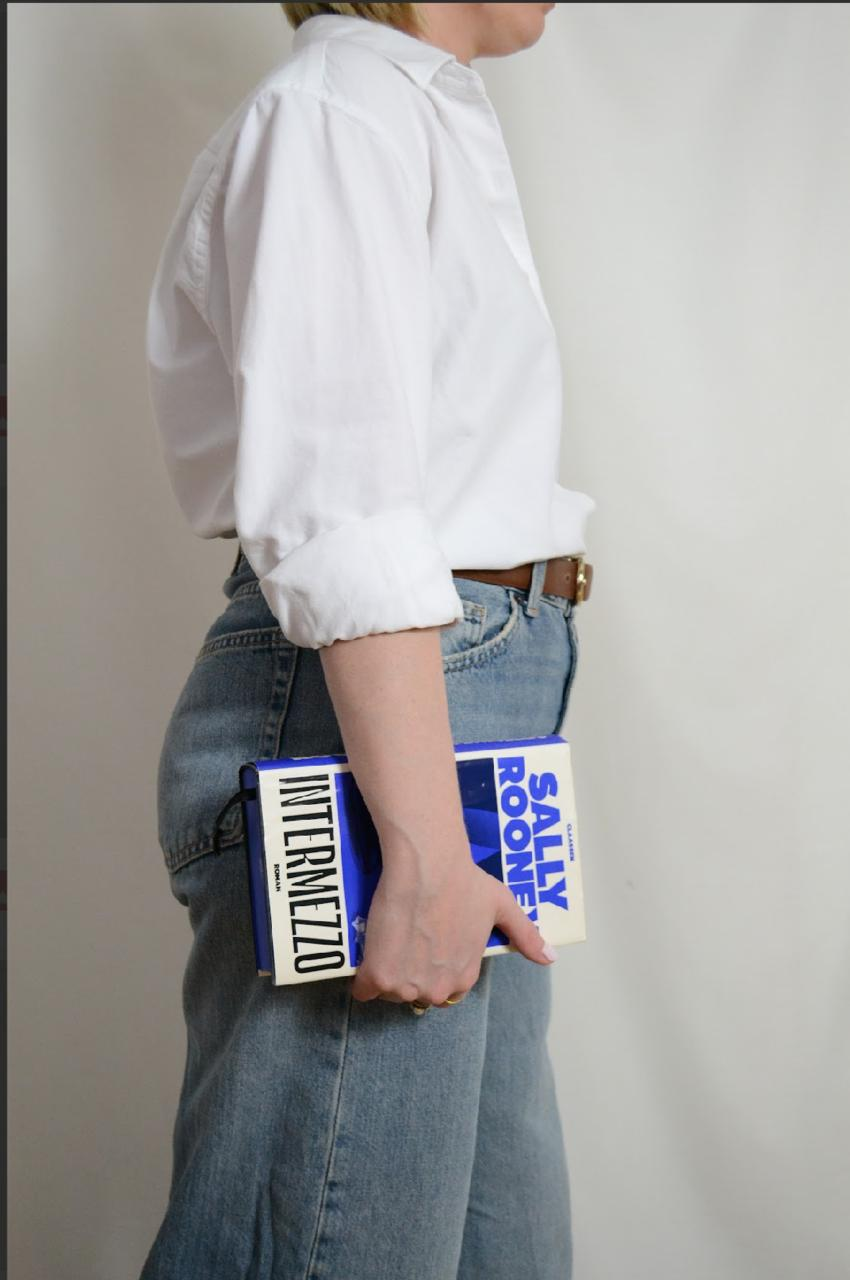
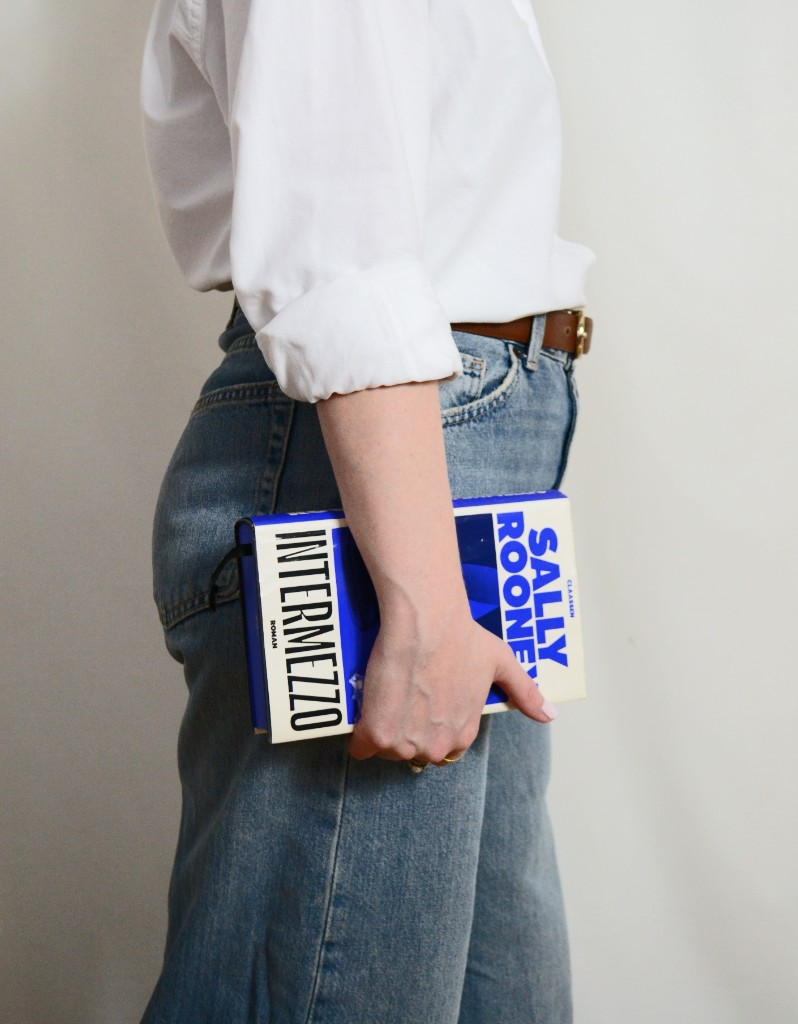
Update images, layout, text, and footer across site
- Replace hero, about, and contact images with new photos

- Adjust image containers and cropping for all pages

- Remove Referenzen section from about page

- Add Instagram icon with link to footer, remove phone number

- Add Sach/Website-Texte sentence to homepage and Korrektorat

- Fix services grid to show 3 columns on medium screens

diff --git a/src/components/AboutSection.tsx b/src/components/AboutSection.tsx
@@ -28,7 +28,7 @@ export default function AboutSection() {
           </div>
 
           {/* Right Column - Photo with asymmetric decorative frame */}
-          <div className="flex justify-center lg:justify-start">
+          <div className="flex justify-center lg:justify-start lg:pl-12">
             <div className="relative m-5">
               {/* Corner accent — L-shape at top-left */}
               <div className="absolute -top-5 -left-5 w-4/5 h-4/5 border-t-[3px] border-l-[3px] border-primary pointer-events-none" />
@@ -36,12 +36,12 @@ export default function AboutSection() {
               <div className="absolute -bottom-5 -right-5 w-4/5 h-4/5 border-b-[3px] border-r-[3px] border-primary pointer-events-none" />
 
               {/* Photo */}
-              <div className="relative w-[280px] h-[264px] sm:w-[320px] sm:h-[300px] md:w-[400px] md:h-[380px] lg:w-[460px] lg:h-[440px] overflow-hidden rounded">
+              <div className="relative w-[220px] h-[268px] sm:w-[250px] sm:h-[305px] md:w-[300px] md:h-[366px] lg:w-[340px] lg:h-[415px] overflow-hidden rounded">
                 <Image
                   src={`${process.env.NEXT_PUBLIC_BASE_PATH || ""}/images/about.png`}
                   alt="Madita Portrait"
                   fill
-                  className="object-cover"
+                  className="object-cover scale-110"
                   sizes="(max-width: 640px) 280px, (max-width: 768px) 320px, (max-width: 1024px) 400px, 460px"
                 />
               </div>
@@ -123,26 +123,6 @@ export default function AboutSection() {
                   </Link>{" "}
                   und erzähl mir von deinem Projekt.
                 </p>
-              </div>
-
-              {/* Referenzen */}
-              <div className="mt-12">
-                <h2 className="text-2xl md:text-3xl lg:text-4xl font-heading text-primary leading-tight">
-                  Referenzen
-                </h2>
-                <div className="mt-6 font-body text-text-dark leading-relaxed text-base lg:text-lg">
-                  <p>
-                    Mindmess:{" "}
-                    <a
-                      href="https://buchshop.bod.de/behind-bloody-shadows-mind-mess-9783695101269"
-                      target="_blank"
-                      rel="noopener noreferrer"
-                      className="text-primary underline underline-offset-2 hover:text-primary-light transition-colors duration-200"
-                    >
-                      Behind Bloody Shadows
-                    </a>
-                  </p>
-                </div>
               </div>
             </div>
           </div>

diff --git a/src/components/HeroSection.tsx b/src/components/HeroSection.tsx
@@ -20,12 +20,12 @@ export default function HeroSection() {
             <div className="absolute -bottom-5 -right-5 w-4/5 h-4/5 border-b-[3px] border-r-[3px] border-primary pointer-events-none" />
 
             {/* Photo */}
-            <div className="relative w-[260px] h-[347px] sm:w-[280px] sm:h-[373px] md:w-[340px] md:h-[453px] lg:w-[400px] lg:h-[533px] overflow-hidden rounded">
+            <div className="relative w-[260px] h-[290px] sm:w-[280px] sm:h-[310px] md:w-[340px] md:h-[380px] lg:w-[400px] lg:h-[450px] overflow-hidden rounded">
               <Image
                 src={`${process.env.NEXT_PUBLIC_BASE_PATH || ""}/images/hero.png`}
                 alt="Madita – Freiberufliche Lektorin"
                 fill
-                className="object-cover scale-110 -translate-y-[5%]"
+                className="object-cover object-[center_30%]"
                 priority
                 sizes="(max-width: 640px) 260px, (max-width: 768px) 280px, (max-width: 1024px) 340px, 400px"
               />
@@ -41,9 +41,8 @@ export default function HeroSection() {
 
           <p className="mt-6 sm:mt-8 text-base lg:text-lg text-text-dark font-body max-w-lg leading-relaxed">
             Ich bin Madita, freiberufliche Lektorin. Ich arbeite vor allem mit
-            Selfpublishern und begleite Autorinnen und Autoren bei der
-            Überarbeitung ihrer Texte und unterstütze mit klarem Feedback und
-            neuen Perspektiven.
+            Selfpublishern und unterstütze Autorinnen und Autoren mit klarem
+            Feedback und neuen Perspektiven.
           </p>
 
           <p className="mt-4 sm:mt-6 text-base lg:text-lg text-text-dark font-body max-w-lg leading-relaxed">
@@ -52,6 +51,11 @@ export default function HeroSection() {
             letzte Korrektur vor Veröffentlichung? Egal, an welchem Punkt du
             gerade stehst, ich unterstütze dich in deinem Schreibprozess und
             nehme deinen Text genauso ernst wie du.
+          </p>
+
+          <p className="mt-4 sm:mt-6 text-base lg:text-lg text-text-dark font-body max-w-lg leading-relaxed">
+            Neben Romanprojekten lektoriere und korrigiere ich bei Bedarf auch
+            Sach- und Website-Texte.
           </p>
 
           <div className="mt-8 sm:mt-10">

diff --git a/src/components/Footer.tsx b/src/components/Footer.tsx
@@ -6,7 +6,7 @@ export default function Footer() {
   return (
     <footer className="bg-bg-warm">
       <div className="max-w-7xl mx-auto px-6 lg:px-8 py-10 lg:py-14">
-        <div className="flex flex-col md:flex-row items-center justify-between gap-8">
+        <div className="flex flex-col md:flex-row items-end justify-between gap-8">
           {/* Left - Brand & Contact */}
           <div className="text-center md:text-left">
             <Link href="/" className="text-xl font-heading text-primary font-bold tracking-tight">
@@ -19,12 +19,29 @@ export default function Footer() {
               >
                 madita.lektorat@gmail.com
               </Link>
-              <Link
-                href="tel:+436645055561"
-                className="text-sm font-body text-text-dark hover:text-primary transition-colors duration-200"
+              <a
+                href="https://www.instagram.com/maditaanna_lektorat/"
+                target="_blank"
+                rel="noopener noreferrer"
+                className="text-text-dark hover:text-primary transition-colors duration-200 mt-1"
+                aria-label="Instagram"
               >
-                +43 (0) 664 50 555 61
-              </Link>
+                <svg
+                  xmlns="http://www.w3.org/2000/svg"
+                  width="20"
+                  height="20"
+                  viewBox="0 0 24 24"
+                  fill="none"
+                  stroke="currentColor"
+                  strokeWidth="1.5"
+                  strokeLinecap="round"
+                  strokeLinejoin="round"
+                >
+                  <rect x="2" y="2" width="20" height="20" rx="5" ry="5" />
+                  <path d="M16 11.37A4 4 0 1 1 12.63 8 4 4 0 0 1 16 11.37z" />
+                  <line x1="17.5" y1="6.5" x2="17.51" y2="6.5" />
+                </svg>
+              </a>
             </div>
           </div>
 

diff --git a/src/app/contact/page.tsx b/src/app/contact/page.tsx
@@ -60,12 +60,12 @@ export default function ContactPage() {
               <div className="absolute -bottom-5 -right-5 w-4/5 h-4/5 border-b-[3px] border-r-[3px] border-primary pointer-events-none" />
 
               {/* Photo */}
-              <div className="relative w-[200px] h-[188px] sm:w-[260px] sm:h-[245px] md:w-[400px] md:h-[380px] lg:w-[460px] lg:h-[420px] overflow-hidden rounded">
+              <div className="relative w-[180px] h-[200px] sm:w-[210px] sm:h-[235px] md:w-[270px] md:h-[300px] lg:w-[300px] lg:h-[335px] overflow-hidden rounded">
                 <Image
                   src={`${process.env.NEXT_PUBLIC_BASE_PATH || ""}/images/contact.png`}
                   alt="Madita – Kontakt"
                   fill
-                  className="object-cover object-center"
+                  className="object-cover"
                   sizes="(max-width: 640px) 200px, (max-width: 768px) 260px, (max-width: 1024px) 400px, 460px"
                 />
               </div>

diff --git a/src/components/ServicesSection.tsx b/src/components/ServicesSection.tsx
@@ -114,7 +114,7 @@ export default function ServicesSection() {
 
       {/* Service Cards */}
       <div className="max-w-7xl mx-auto px-6 lg:px-8 pb-8 lg:pb-12">
-        <div className="grid md:grid-cols-2 lg:grid-cols-3 gap-6 lg:gap-8">
+        <div className="grid md:grid-cols-3 gap-6 lg:gap-8">
           <ServiceCard id="lektorat" title="Lektorat" accent="top-right">
             <p>
               Im Lektorat kommentiere ich das Manuskript und gebe inhaltliches
@@ -173,6 +173,10 @@ export default function ServicesSection() {
             <p>
               Auf Wunsch prüfe ich auch das Satzdokument – also Absätze,
               Umbrüche und die formale Gestaltung vor Veröffentlichung.
+            </p>
+            <p>
+              Ich übernehme auch Korrektorate für Sachtexte und
+              Website-Textierungen.
             </p>
           </ServiceCard>
         </div>
